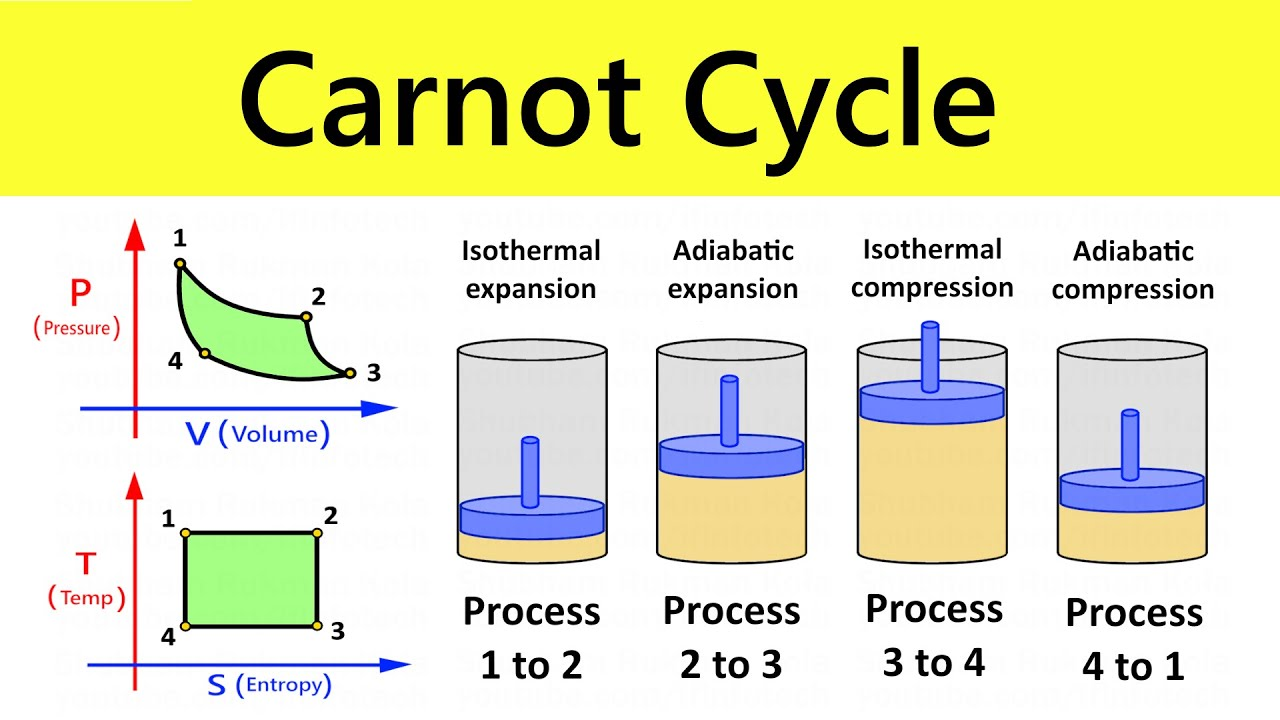
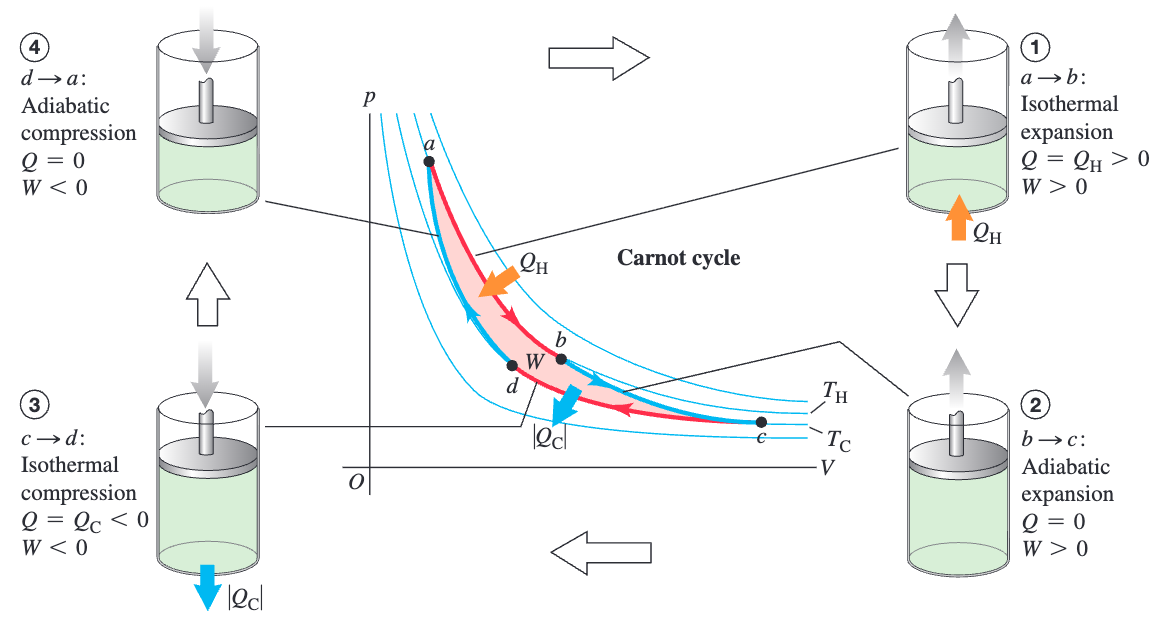
update notes

diff --git a/4 Physics/17 Second Law of Thermodynamics.md b/4 Physics/17 Second Law of Thermodynamics.md
@@ -21,6 +21,37 @@
 - zero dissipation
 
 ---
+### heat engine
+- transform heat into work
+- transform thermal energy into mechanical energy
+![[4 Physics/Images/heat engine.png]]
+
+---
+### heat engine formula
+$$
+\begin{aligned}
+W=Q_H-Q_C\\
+\eta=\frac{W}{Q_{H}}\\
+Q=\text{heat}\\
+W=\text{work}
+\end{aligned}
+$$
+
+---
+### internal combustion engine
+- piston moves down, intake valve opens, and air-fuel mixture enters the cylinder
+- piston moves up, intake valve closes, and piston compresses the mixture
+- spark plug ignites the compressed mixture
+- hot gases expand and push the piston down thus producing work
+- piston moves up, exhaust valve opens, and burned gas exits the cylinder
+![](4%20Physics/Images/four%20stroke%20internal%20combustion%20engine.png)
+
+---
+### internal combustion engine example
+- gasoline engine
+- diesel engine
+
+---
 ### thermodynamic cycle
 - thermodynamic process whose final state equal initial state
 - clockwise cycle equal positive work
@@ -31,152 +62,154 @@
 ### thermodynamic cycle formula
 $$
 \begin{aligned}
-Q=W
+Q=W\\
+Q=\text{heat}\\
+W=\text{work}
+\end{aligned}
+$$
+
+---
+### otto cycle
+- thermodynamic cycle of internal combustion gasoline engine
+![300](4%20Physics/Images/otto%20cycle.png)
+
+---
+### otto cycle formula
+$$
+\begin{aligned}
+\eta=1-\frac{1}{(\frac{V_a}{V_b})^{\gamma-1}}\\
+\gamma=\frac{C_{p}}{C_{V}}\\
+V=\text{volume}\\
+C=\text{molar heat capacity}
+\end{aligned}
+$$
+
+---
+### diesel cycle
+- thermodynamic cycle of internal combustion diesel engine
+![300](4%20Physics/Images/diesel%20cycle.png)
+
+---
+### diesel cycle formula
+$$
+\begin{aligned}
+\eta=1-\frac{\rho^{\gamma-1}-1}{\gamma(\rho-1)(\frac{V_a}{V_b})^{\gamma-1}}\\
+\rho=\frac{V_c}{V_b}\\
+\gamma=\frac{C_{p}}{C_{V}}\\
+V=\text{volume}\\
+C=\text{molar heat capacity}
+\end{aligned}
+$$
+
+---
+### refrigerator
+- subtract heat from cold region
+- aka reverse heat engine
+![](4%20Physics/Images/refrigerator.png)
+
+---
+### refrigerator formula
+$$
+\begin{aligned}
+\text{COP}_{\text{R}}=\frac{Q_C}{W}=\frac{Q_{C}}{Q_{H}-Q_{C}}\\
+Q=\text{heat}\\
+W=\text{work}
+\end{aligned}
+$$
+
+---
+### heat pump
+- add heat to hot region
+- aka reverse heat engine
+![200](4%20Physics/Images/heat%20pump.png)
+
+---
+### heat pump formula
+$$
+\begin{aligned}
+\text{COP}_\text{HP}=\frac{Q_H}{W}=\frac{Q_{H}}{Q_{H}-Q_{C}}\\
+Q=\text{heat}\\
+W=\text{work}
 \end{aligned}
 $$
 
 ---
 ### second law of thermodynamics
-- heat flows from high temperature to low temperature until thermal equilibrium
-![[4 Physics/Images/second law of thermodynamics.png]]
+- heat flow from high temperature to low temperature until thermal equilibrium
+- fluid flow from high pressure to low pressure until mechanical equilibrium
+- chemical flow from high concentration to low concentration until chemical equilibrium
+![300](4%20Physics/Images/second%20law%20of%20thermodynamics.png)
 
 ---
-### 2nd formula of thermodynamics
+### second law of thermodynamics formula
 $$
 \begin{aligned}
-T_{a}<T_{b}\implies T_{a}+Q=T_{b}\\
+T_{A}<T_{B}\implies T_{A}+Q=T_{B}\\
 T=\text{temperature}\\
 Q=\text{heat}
 \end{aligned}
 $$
 
 ---
-### heat engine
-- transform heat into work
-- transform thermal energy into mechanical energy
-![[4 Physics/Images/heat engine.png]]
-
----
-### heat engine efficiency formula
-$$
-\begin{aligned}
-e=\frac{W}{Q_{h}}\\
-W=\text{work}\\
-Q=\text{heat}
-\end{aligned}
-$$
-
----
-### refrigerator
-- transform work into heat
-- transform mechanical energy into thermal energy
-![[4 Physics/Images/refrigerator.png]]
-
----
-### refrigerator coefficient of performance formula
-$$
-\begin{aligned}
-COP=\frac{Q_{c}}{Q_{h}-Q_{c}}\\
-Q=\text{heat}
-\end{aligned}
-$$
-
----
-### heat pump
-- transform heat into work
-- transform thermal energy into mechanical energy
-![[4 Physics/Images/heat pump.png]]
-
----
-### heat pump coefficient of performance formula
-$$
-\begin{aligned}
-COP=\frac{Q_{h}}{Q_{h}-Q_{c}}\\
-Q=\text{heat}
-\end{aligned}
-$$
-
----
 ### carnot cycle
-- maximum efficiency cycle operating between two constant temperature reservoirs
-![[4 Physics/Images/carnot cycle.png|500]]
+- thermodynamic cycle operating at maximum efficiency between hot reservoir and cold reservoir
+![400](4%20Physics/Images/carnot%20cycle.png)
 
 ---
 ### carnot cycle formula
 $$
 \begin{aligned}
-e=\frac{T_{h}-T_{c}}{T_{h}}\\
-COP=\frac{T_{c}}{T_{h}-T_{c}}\\
-COP=\frac{T_{h}}{T_{h}-T_{c}}\\
+\eta=\frac{T_{H}-T_{C}}{T_{H}}=\frac{Q_{H}-Q_{C}}{Q_{H}}\\
+\text{COP}_{\text{R}}=\frac{Q_C}{W}=\frac{T_{C}}{T_{H}-T_{C}}\\
+\text{COP}_{\text{HP}}=\frac{Q_H}{W}=\frac{T_{H}}{T_{H}-T_{C}}\\
+T=\text{temperature}\\
+Q=\text{heat}\\
+W=\text{work}
+\end{aligned}
+$$
+
+---
+### entropy
+- number of possible microstates corresponding with macrostate
+- or quantitative measure of randomness
+![200](4%20Physics/Images/entropy.png)
+
+---
+### entropy formula
+$$
+\begin{aligned}
+S=k_{b}\ln(\Omega)\\
+\Delta S=\int\frac{dQ}{T}\\
+k_{b}=1.38\times10^{-23}\\
+\Omega=\text{number of microstates}\\
+Q=\text{heat}\\
 T=\text{temperature}
 \end{aligned}
 $$
 
 ---
 ### second law of thermodynamics
-- universal entropy must remain constant or increase but never decrease
-- lower entropy energy has higher potential to do work
+- universal entropy of isolated system can increase but cannot decrease
 
 ---
-### 2nd formula of thermodynamics
+### second law of thermodynamics formula
 $$
 \begin{aligned}
-\Delta S=\Delta S_{x}+\Delta S_{y}\ge0\\
-S_{x}=\text{system entropy}\\
-S_{y}=\text{surrounding entropy}
-\end{aligned}
-$$
-
----
-### entropy
-- measure of disorder or the number of microstates
-![[4 Physics/Images/entropy.png]]
-
----
-### entropy formula
-$$
-\begin{aligned}
-\Delta S=\frac{Q}{T_{k}}\\
-Q=\text{heat}\\
-T_{k}=\text{kelvin}
-\end{aligned}
-$$
-
----
-### microstate
-- exact arrangement of molecules
-
----
-### macrostate
-- property of system such as pressure, volume, or temperature
-
----
-### microscopic entropy
-- most probable macrostate has the greatest number of corresponding microstates
-- most probable macrostate has the greatest entropy
-![[4 Physics/Images/microscopic entropy.png]]
-
----
-### microscopic entropy formula
-$$
-\begin{aligned}
-S=k_{b}\ln(\Omega)\\
-k_{b}=1.38\times10^{-23}\\
-\Omega=\text{number of microstates}
+\Delta S=\Delta S_{\text{system}}+\Delta S_{\text{surroundings}}\ge0\\
+S=\text{entropy}
 \end{aligned}
 $$
 
 ---
 ### third law of thermodynamics
 - entropy decreases as temperature decreases
-![[4 Physics/Images/third law of thermodynamics.png|400]]
 
 ---
-### 3rd formula of thermodynamics
+### third law of thermodynamics formula
 $$
 \begin{aligned}
-S=k_{b}\ln(1)=0\\
-k_{b}=1.38\times10^{-23}
+S=k\ln(1)=0\\
+k=1.381\times10^{-23}
 \end{aligned}
 $$
 
